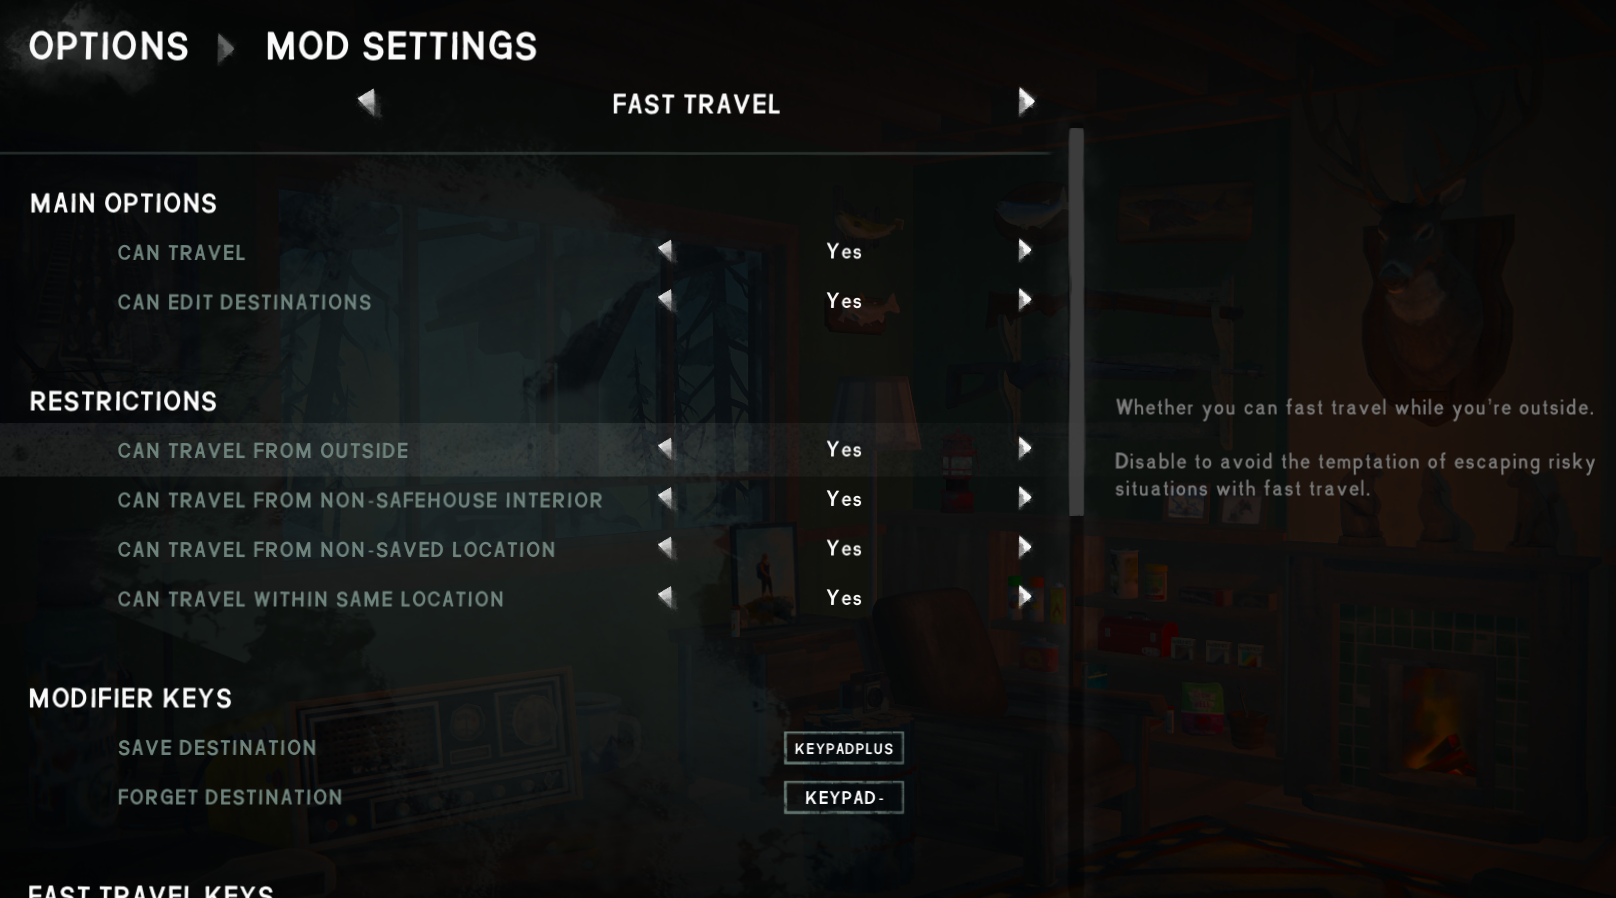
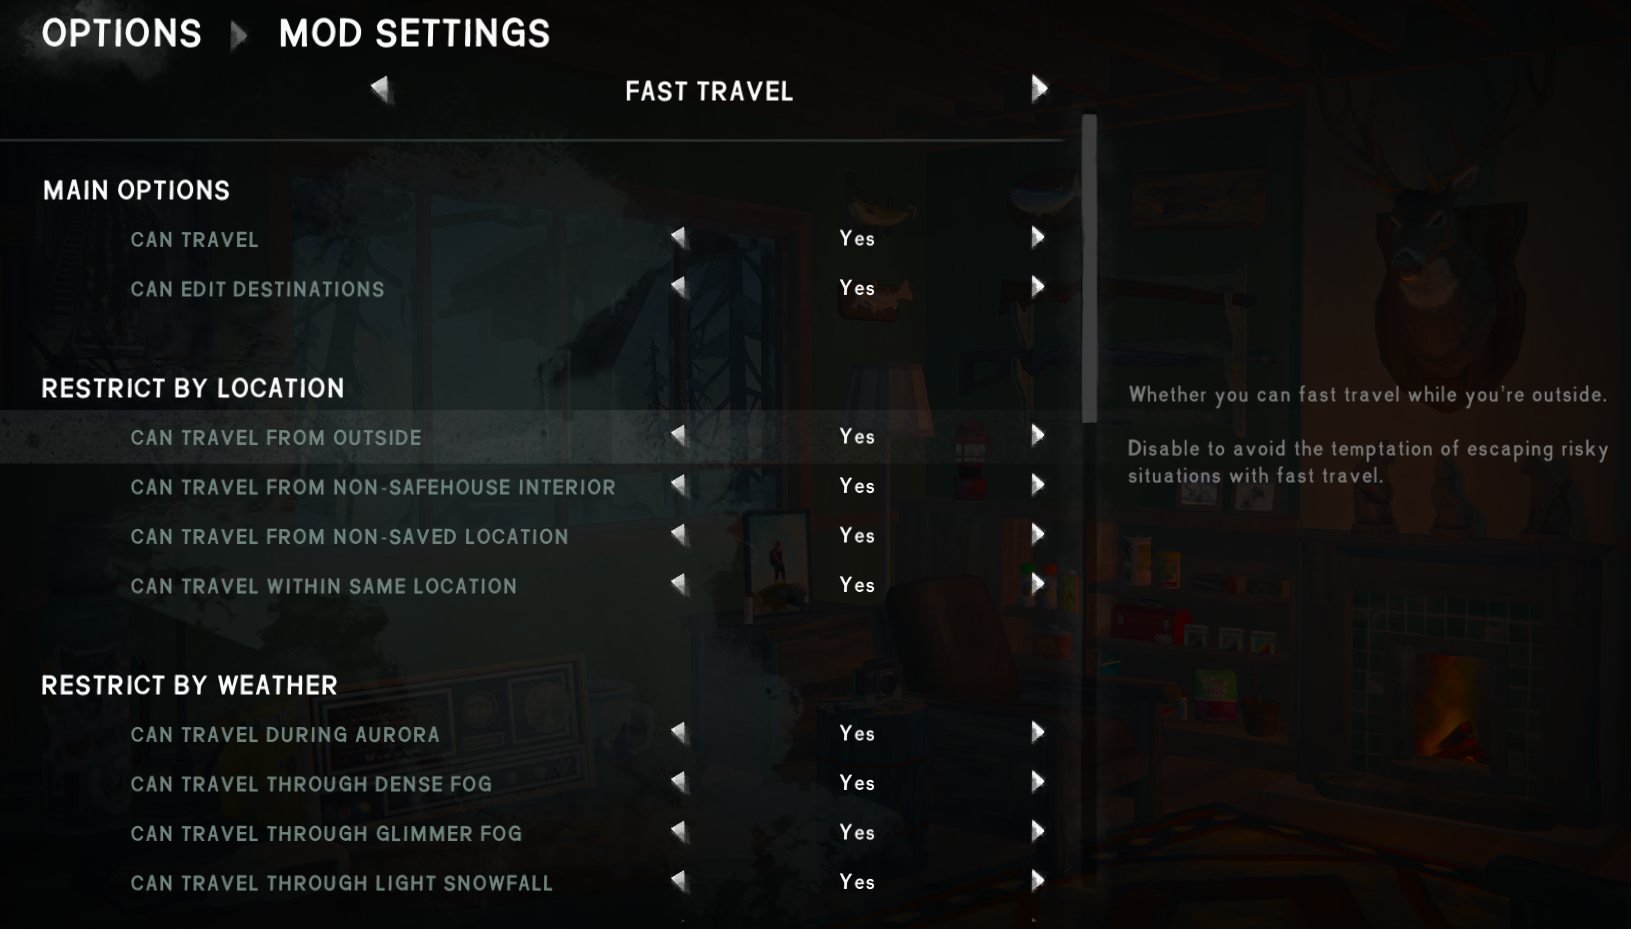
add optional fast travel restrictions by weather

diff --git a/src/FastTravel/Framework/FastTravelRestrictionHelper.cs b/src/FastTravel/Framework/FastTravelRestrictionHelper.cs
@@ -1,5 +1,6 @@
 using System.Diagnostics.CodeAnalysis;
 using System.Linq;
+using Il2Cpp;
 using Pathoschild.TheLongDarkMods.Common;
 using Pathoschild.TheLongDarkMods.FastTravel.Framework.DataModels;
 
@@ -29,11 +30,12 @@ internal class FastTravelRestrictionHelper
     /// <param name="from">The scene from which the player would travel.</param>
     /// <param name="to">The scene in which the player would arrive.</param>
     /// <param name="data">The saved fast travel destinations.</param>
-    /// <param name="reasonPhrase">If restrictions are in place, a phrase which can fit in the sentence <c>Can't fast travel {0}</c>.</param>
+    /// <param name="reasonPhrase">If fast travel is restricted, a phrase which can fit in the sentence <c>Can't fast travel {0}</c>.</param>
     /// <returns>Returns whether restrictions prohibit this fast travel.</returns>
     public bool IsAllowed(Destination from, Destination? to, SaveModel data, [NotNullWhen(false)] out string? reasonPhrase)
     {
-        bool isOutdoors = SceneHelper.IsOutdoors(from.Scene.Name);
+        bool isSameScene = from.Scene.Name == to?.Scene.Name;
+        bool isFromOutside = SceneHelper.IsOutdoors(from.Scene.Name);
 
         // disabled
         if (!this.Config.CanTravel)
@@ -50,27 +52,72 @@ internal class FastTravelRestrictionHelper
         }
 
         // from outside
-        if (!this.Config.CanTravelFromOutside && isOutdoors)
+        if (!this.Config.CanTravelFromOutside && isFromOutside)
         {
             reasonPhrase = "from outside";
             return false;
         }
 
         // from non-safehouse
-        if (!this.Config.CanTravelFromNonSafehouseInterior && !isOutdoors && !SceneHelper.IsCustomizableSafehouse())
+        if (!this.Config.CanTravelFromNonSafehouseInterior && !isFromOutside && !SceneHelper.IsCustomizableSafehouse())
         {
             reasonPhrase = "from non-safehouse interior";
             return false;
         }
 
         // from within scene
-        if (!this.Config.CanTravelWithinScene && from.Scene.Name == to?.Scene.Name)
+        if (!this.Config.CanTravelWithinScene && isSameScene)
         {
             reasonPhrase = "to the same location";
             return false;
         }
 
+        // restrict by weather
+        if (!this.CanTravelDuringWeather(out reasonPhrase))
+            return false;
+
         reasonPhrase = null;
         return true;
+    }
+
+
+    /*********
+    ** Private methods
+    *********/
+    /// <summary>Get whether the player can travel during the current weather in their departure region.</summary>
+    /// <param name="reasonPhrase">If fast travel is restricted, a phrase which can fit in the sentence <c>Can't fast travel {0}</c>.</param>
+    /// <returns>Returns whether travel is allowed.</returns>
+    private bool CanTravelDuringWeather([NotNullWhen(false)] out string? reasonPhrase)
+    {
+        switch (GameManager.GetWeatherComponent().GetWeatherStage())
+        {
+            case WeatherStage.ClearAurora:
+                reasonPhrase = "during an aurora";
+                return this.Config.CanTravelDuringAurora;
+
+            case WeatherStage.DenseFog:
+                reasonPhrase = "during dense fog";
+                return this.Config.CanTravelDuringDenseFog;
+
+            case WeatherStage.ElectrostaticFog:
+                reasonPhrase = "during glimmer fog";
+                return this.Config.CanTravelDuringGlimmerFog;
+
+            case WeatherStage.LightSnow:
+                reasonPhrase = "during light snowfall";
+                return this.Config.CanTravelDuringLightSnowfall;
+
+            case WeatherStage.HeavySnow:
+                reasonPhrase = "during heavy snowfall";
+                return this.Config.CanTravelDuringHeavySnowfall;
+
+            case WeatherStage.Blizzard:
+                reasonPhrase = "during a blizzard";
+                return this.Config.CanTravelDuringBlizzard;
+
+            default:
+                reasonPhrase = null;
+                return true;
+        }
     }
 }

diff --git a/src/FastTravel/Framework/ModConfig.cs b/src/FastTravel/Framework/ModConfig.cs
@@ -22,9 +22,9 @@ internal class ModConfig : JsonModSettings
     public bool CanEditDestinations = true;
 
     /****
-    ** Restrictions
+    ** Restrict by location
     ****/
-    [Section("Restrictions")]
+    [Section("Restrict by location")]
     [Name("Can travel from outside")]
     [Description("Whether you can fast travel while you're outside.\n\nDisable to avoid the temptation of escaping risky situations with fast travel.")]
     public bool CanTravelFromOutside = true;
@@ -40,6 +40,34 @@ internal class ModConfig : JsonModSettings
     [Name("Can travel within same location")]
     [Description("Whether you can fast travel from one point to another in the same location.")]
     public bool CanTravelWithinScene = true;
+
+    /****
+    ** Restrict by weather
+    ****/
+    [Section("Restrict by weather")]
+    [Name("Can travel during aurora")]
+    [Description("Whether you can fast travel during an aurora.")]
+    public bool CanTravelDuringAurora = true;
+
+    [Name("Can travel through dense fog")]
+    [Description("Whether you can fast travel during dense fog in your departure region.")]
+    public bool CanTravelDuringDenseFog = true;
+
+    [Name("Can travel through glimmer fog")]
+    [Description("Whether you can fast travel during glimmer fog in your departure region.")]
+    public bool CanTravelDuringGlimmerFog = true;
+
+    [Name("Can travel through light snowfall")]
+    [Description("Whether you can fast travel during normal snowfall in your departure region.")]
+    public bool CanTravelDuringLightSnowfall = true;
+
+    [Name("Can travel through heavy snowfall")]
+    [Description("Whether you can fast travel during heavy snowfall in your departure region.")]
+    public bool CanTravelDuringHeavySnowfall = true;
+
+    [Name("Can travel through blizzard")]
+    [Description("Whether you can fast travel during a blizzard in your departure region.")]
+    public bool CanTravelDuringBlizzard = true;
 
     /****
     ** Modifier keys

diff --git a/src/FastTravel/ModEntry.cs b/src/FastTravel/ModEntry.cs
@@ -124,6 +124,7 @@ public class ModEntry : MelonMod
                     is outside: {SceneHelper.IsOutdoors(location.Scene.Name)}
                     is safehouse: {SceneHelper.IsCustomizableSafehouse()}
                     was restored: {GameManager.m_SceneWasRestored}
+                    weather: {GameManager.GetWeatherComponent().GetWeatherStage()}
 
                     Unity scene:
                         name: {location.Scene.Name}

diff --git a/src/FastTravel/docs/release-notes.md b/src/FastTravel/docs/release-notes.md
@@ -2,6 +2,7 @@
 
 # Release notes
 ## Upcoming release
+* Added optional restrictions by weather.
 * Changed most restrictions to disabled by default.  
   _This avoids unexpected new restrictions coming into effect when you update the mod. You can still explicitly enable any restrictions you want._
 
